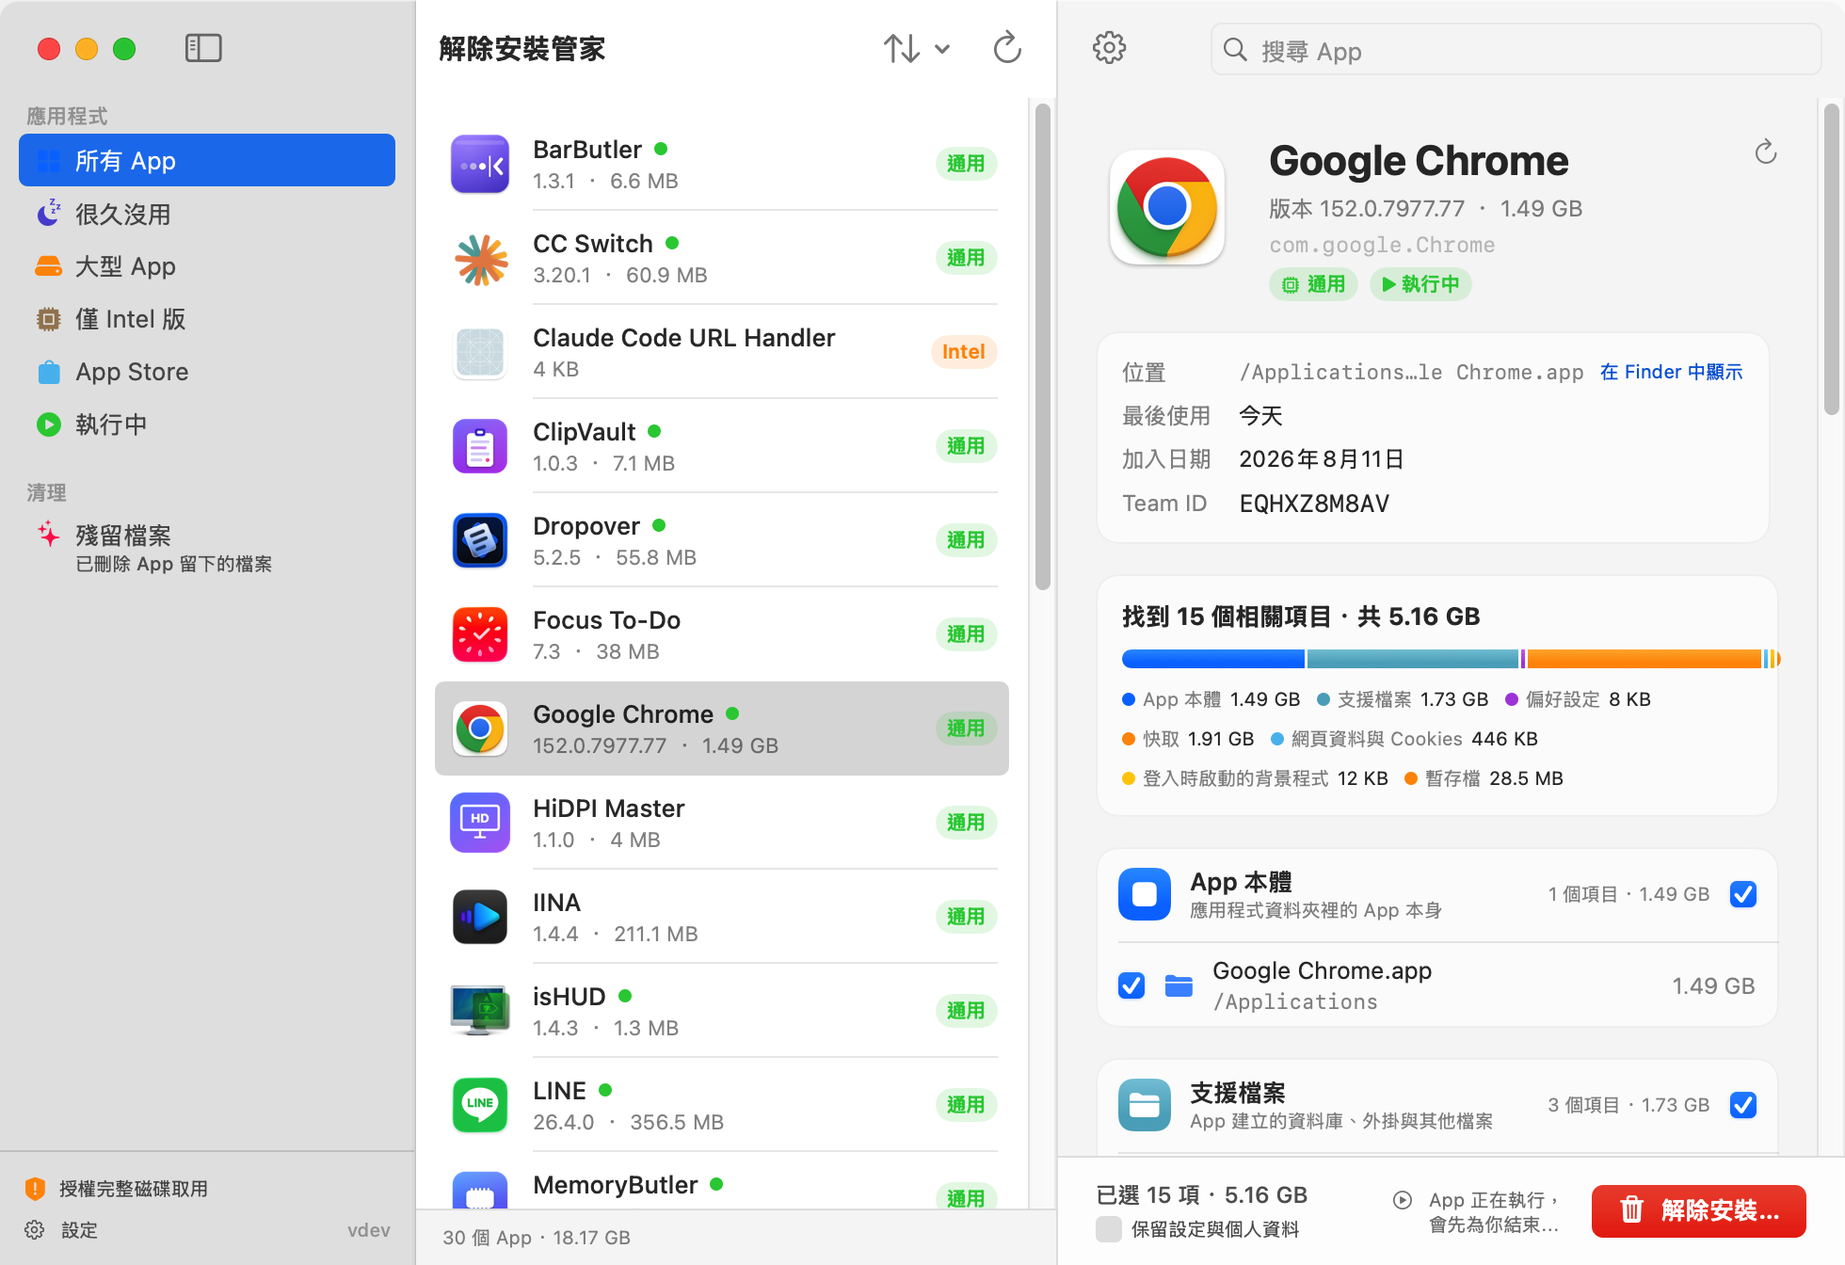
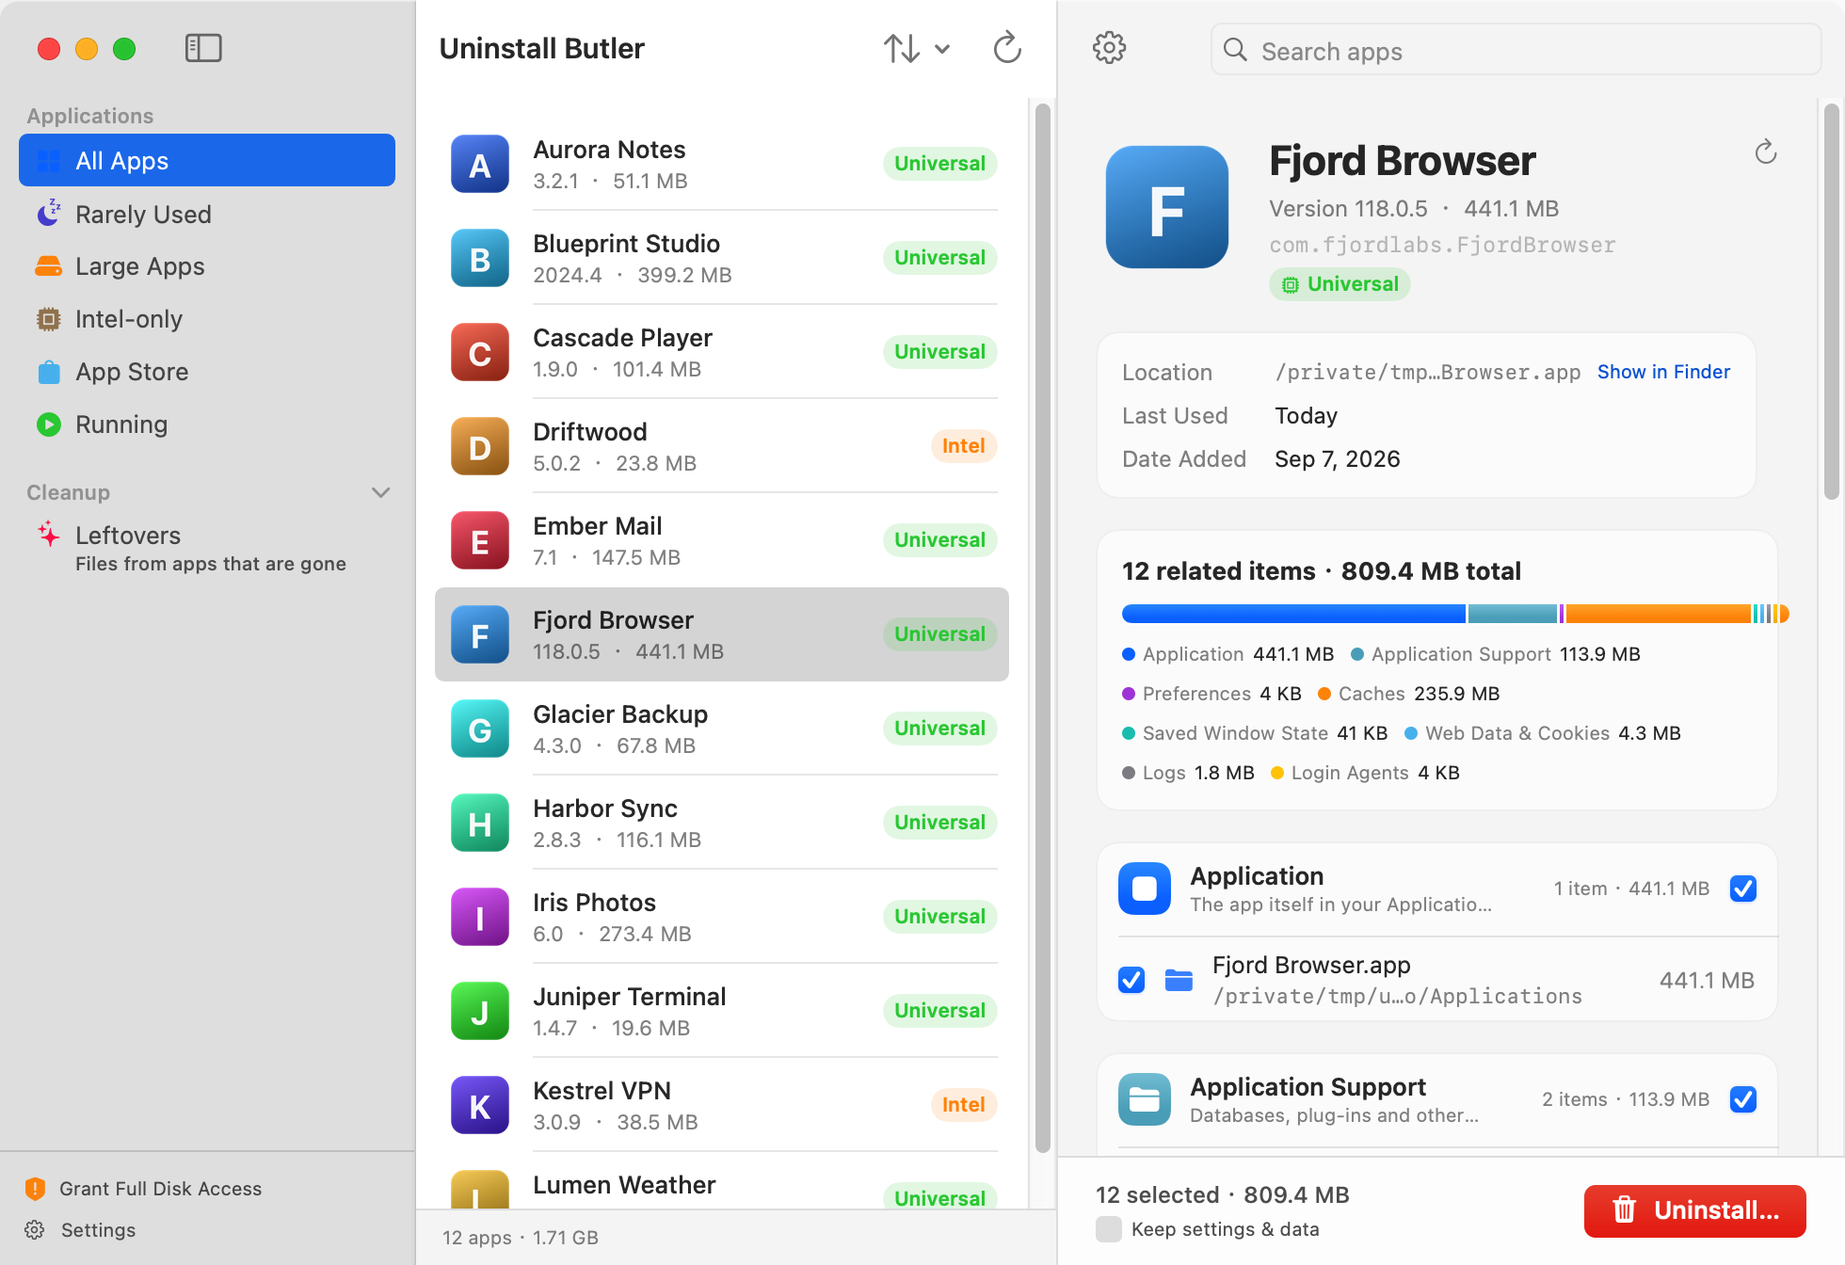
Fix bundle-size fallback and symlinked-path handling; add update checker, demo screenshots
- SizeCalculator: only trust Spotlight PhysicalSize when plausible, otherwise enumerate
  (apps in unindexed folders reported 1 byte)
- AppScanner/ResidueFinder: only treat an app as symlinked when the .app entry itself is a
  symlink; compare launchd/container/CLI paths against all equivalent app paths
- UpdateChecker against GitHub Releases + Check for Updates menu item
- README screenshots rendered from a fictional demo environment (scripts/make_demo.swift)
- make_dev_cert.sh: use ${NAME} next to CJK quotes (bash parsed them as part of the name)

diff --git a/scripts/make_demo.swift b/scripts/make_demo.swift
@@ -1,0 +1,148 @@
+// 產生 README 截圖用的「虛構示範環境」：假 App（含圖示、假大小）＋ 一個示範 App 的假殘留。
+//   swift scripts/make_demo.swift create   → /tmp/ub-demo/Applications/*.app 與 ~/Library 內的示範殘留
+//   swift scripts/make_demo.swift cleanup  → 全部移除
+// 所有名稱都是虛構的，不會碰到任何真實 App 的檔案。
+import AppKit
+import Foundation
+
+let fm = FileManager.default
+let home = URL(fileURLWithPath: NSHomeDirectory())
+let demoRoot = URL(fileURLWithPath: "/tmp/ub-demo/Applications", isDirectory: true)
+let lib = home.appendingPathComponent("Library")
+
+struct DemoApp { let name: String; let id: String; let version: String; let mb: Int; let hue: CGFloat; let intelOnly: Bool }
+let apps: [DemoApp] = [
+    .init(name: "Aurora Notes", id: "com.northlight.AuroraNotes", version: "3.2.1", mb: 48, hue: 0.62, intelOnly: false),
+    .init(name: "Blueprint Studio", id: "com.draftworks.BlueprintStudio", version: "2024.4", mb: 380, hue: 0.55, intelOnly: false),
+    .init(name: "Cascade Player", id: "org.cascade.Player", version: "1.9.0", mb: 96, hue: 0.02, intelOnly: false),
+    .init(name: "Driftwood", id: "com.tidepool.Driftwood", version: "5.0.2", mb: 22, hue: 0.09, intelOnly: true),
+    .init(name: "Ember Mail", id: "com.emberworks.Mail", version: "7.1", mb: 140, hue: 0.98, intelOnly: false),
+    .init(name: "Fjord Browser", id: "com.fjordlabs.FjordBrowser", version: "118.0.5", mb: 420, hue: 0.58, intelOnly: false),
+    .init(name: "Glacier Backup", id: "com.glacier.Backup", version: "4.3.0", mb: 64, hue: 0.50, intelOnly: false),
+    .init(name: "Harbor Sync", id: "io.harbor.Sync", version: "2.8.3", mb: 110, hue: 0.44, intelOnly: false),
+    .init(name: "Iris Photos", id: "com.irislabs.Photos", version: "6.0", mb: 260, hue: 0.80, intelOnly: false),
+    .init(name: "Juniper Terminal", id: "dev.juniper.Terminal", version: "1.4.7", mb: 18, hue: 0.33, intelOnly: false),
+    .init(name: "Kestrel VPN", id: "com.kestrel.VPN", version: "3.0.9", mb: 36, hue: 0.70, intelOnly: true),
+    .init(name: "Lumen Weather", id: "com.lumen.Weather", version: "2.2", mb: 30, hue: 0.12, intelOnly: false),
+]
+let demoResidue: [(String, Int)] = [   // 相對 ~/Library 的路徑 → KB（0 = 單一小檔）
+    ("Application Support/Fjord Browser/Profiles", 96_000),
+    ("Application Support/fjordlabs/FjordBrowser", 3_200),
+    ("Caches/com.fjordlabs.FjordBrowser", 210_000),
+    ("Caches/com.fjordlabs.FjordBrowser.helper", 8_400),
+    ("Preferences/com.fjordlabs.FjordBrowser.plist", 0),
+    ("Saved Application State/com.fjordlabs.FjordBrowser.savedState", 40),
+    ("LaunchAgents/com.fjordlabs.FjordBrowser.updater.plist", 0),
+    ("HTTPStorages/com.fjordlabs.FjordBrowser", 1_100),
+    ("WebKit/com.fjordlabs.FjordBrowser", 2_900),
+    ("Logs/Fjord Browser", 1_800),
+]
+
+func writeBlob(_ url: URL, kb: Int) throws {
+    try fm.createDirectory(at: url.deletingLastPathComponent(), withIntermediateDirectories: true)
+    if kb == 0 { try Data("demo".utf8).write(to: url); return }
+    let handle = try { () throws -> FileHandle in
+        fm.createFile(atPath: url.path, contents: nil)
+        return try FileHandle(forWritingTo: url)
+    }()
+    defer { try? handle.close() }
+    var remaining = kb * 1024
+    let chunk = Data((0..<(1024 * 1024)).map { _ in UInt8.random(in: 0...255) })
+    while remaining > 0 {
+        let n = min(remaining, chunk.count)
+        try handle.write(contentsOf: chunk.prefix(n))
+        remaining -= n
+    }
+}
+
+func makeIcon(letter: String, hue: CGFloat, to icns: URL) throws {
+    let size: CGFloat = 512
+    let img = NSImage(size: NSSize(width: size, height: size))
+    img.lockFocus()
+    let inset: CGFloat = 36
+    let rect = NSRect(x: inset, y: inset, width: size - 2 * inset, height: size - 2 * inset)
+    let plate = NSBezierPath(roundedRect: rect, xRadius: 98, yRadius: 98)
+    let c1 = NSColor(calibratedHue: hue, saturation: 0.65, brightness: 0.95, alpha: 1)
+    let c2 = NSColor(calibratedHue: hue, saturation: 0.85, brightness: 0.55, alpha: 1)
+    NSGradient(colors: [c1, c2])!.draw(in: plate, angle: -70)
+    let attrs: [NSAttributedString.Key: Any] = [.font: NSFont.systemFont(ofSize: 250, weight: .bold), .foregroundColor: NSColor.white.withAlphaComponent(0.95)]
+    let str = NSAttributedString(string: letter, attributes: attrs)
+    let sz = str.size()
+    str.draw(at: NSPoint(x: (size - sz.width) / 2, y: (size - sz.height) / 2 - 10))
+    img.unlockFocus()
+    guard let tiff = img.tiffRepresentation, let rep = NSBitmapImageRep(data: tiff), let png = rep.representation(using: .png, properties: [:]) else { return }
+    let iconset = icns.deletingLastPathComponent().appendingPathComponent("tmp.iconset")
+    try? fm.removeItem(at: iconset)
+    try fm.createDirectory(at: iconset, withIntermediateDirectories: true)
+    try png.write(to: iconset.appendingPathComponent("icon_256x256@2x.png"))
+    try png.write(to: iconset.appendingPathComponent("icon_512x512.png"))
+    let p = Process()
+    p.executableURL = URL(fileURLWithPath: "/usr/bin/iconutil")
+    p.arguments = ["-c", "icns", iconset.path, "-o", icns.path]
+    try p.run(); p.waitUntilExit()
+    try? fm.removeItem(at: iconset)
+}
+
+func thinBinary(to url: URL, intelOnly: Bool) throws {
+    if intelOnly {
+        let p = Process()
+        p.executableURL = URL(fileURLWithPath: "/usr/bin/lipo")
+        p.arguments = ["/bin/ls", "-thin", "x86_64", "-output", url.path]
+        try p.run(); p.waitUntilExit()
+    } else {
+        try fm.copyItem(at: URL(fileURLWithPath: "/bin/ls"), to: url)
+    }
+}
+
+func create() throws {
+    try? fm.removeItem(at: demoRoot)
+    try fm.createDirectory(at: demoRoot, withIntermediateDirectories: true)
+    for a in apps {
+        let bundle = demoRoot.appendingPathComponent("\(a.name).app")
+        let contents = bundle.appendingPathComponent("Contents")
+        try fm.createDirectory(at: contents.appendingPathComponent("MacOS"), withIntermediateDirectories: true)
+        try fm.createDirectory(at: contents.appendingPathComponent("Resources"), withIntermediateDirectories: true)
+        let exe = a.name.replacingOccurrences(of: " ", with: "")
+        let info: [String: Any] = ["CFBundleIdentifier": a.id, "CFBundleName": a.name, "CFBundleDisplayName": a.name,
+                                   "CFBundleExecutable": exe, "CFBundleShortVersionString": a.version, "CFBundleVersion": "1",
+                                   "CFBundlePackageType": "APPL", "CFBundleIconFile": "AppIcon", "LSMinimumSystemVersion": "12.0"]
+        try PropertyListSerialization.data(fromPropertyList: info, format: .xml, options: 0).write(to: contents.appendingPathComponent("Info.plist"))
+        try thinBinary(to: contents.appendingPathComponent("MacOS/\(exe)"), intelOnly: a.intelOnly)
+        try makeIcon(letter: String(a.name.prefix(1)), hue: a.hue, to: contents.appendingPathComponent("Resources/AppIcon.icns"))
+        try writeBlob(contents.appendingPathComponent("Resources/payload.bin"), kb: a.mb * 1024)
+        print("  • \(a.name) (\(a.mb) MB)")
+    }
+    for (rel, kb) in demoResidue {
+        let url = lib.appendingPathComponent(rel)
+        if url.pathExtension == "plist" {
+            let plist: [String: Any] = rel.contains("LaunchAgents")
+                ? ["Label": "com.fjordlabs.FjordBrowser.updater", "ProgramArguments": [demoRoot.appendingPathComponent("Fjord Browser.app/Contents/MacOS/FjordBrowser").path, "--check"], "RunAtLoad": false]
+                : ["HomePage": "https://example.com", "ShowBookmarksBar": true]
+            try fm.createDirectory(at: url.deletingLastPathComponent(), withIntermediateDirectories: true)
+            try PropertyListSerialization.data(fromPropertyList: plist, format: .xml, options: 0).write(to: url)
+        } else {
+            try writeBlob(url.appendingPathComponent(kb > 50_000 ? "Cache.db" : "data.bin"), kb: kb)
+            if kb > 50_000 { try writeBlob(url.appendingPathComponent("Media Cache/index.db"), kb: 12_000) }
+        }
+    }
+    // /var/folders 快取
+    var buf = [Int8](repeating: 0, count: Int(PATH_MAX))
+    if confstr(_CS_DARWIN_USER_CACHE_DIR, &buf, buf.count) > 0 {
+        let c = URL(fileURLWithPath: String(cString: buf)).appendingPathComponent("com.fjordlabs.FjordBrowser")
+        try writeBlob(c.appendingPathComponent("tmp.bin"), kb: 12_000)
+    }
+    print("示範環境已建立：\(demoRoot.path)")
+}
+
+func cleanup() {
+    try? fm.removeItem(at: URL(fileURLWithPath: "/tmp/ub-demo"))
+    for (rel, _) in demoResidue { try? fm.removeItem(at: lib.appendingPathComponent(rel)) }
+    try? fm.removeItem(at: lib.appendingPathComponent("Application Support/fjordlabs"))
+    var buf = [Int8](repeating: 0, count: Int(PATH_MAX))
+    if confstr(_CS_DARWIN_USER_CACHE_DIR, &buf, buf.count) > 0 {
+        try? fm.removeItem(at: URL(fileURLWithPath: String(cString: buf)).appendingPathComponent("com.fjordlabs.FjordBrowser"))
+    }
+    print("示範環境已清除")
+}
+
+if CommandLine.arguments.contains("cleanup") { cleanup() } else { try create() }

diff --git a/Sources/UninstallCore/ResidueFinder.swift b/Sources/UninstallCore/ResidueFinder.swift
@@ -230,15 +230,25 @@ public enum ResidueFinder {
             return nil
         }
 
+        /// App 的所有等價路徑（列出的路徑、symlink 解析後、中間目錄也解析後）
+        var appPaths: [String] {
+            var set: [String] = []
+            for p in [app.url.path, appPath, (appPath as NSString).resolvingSymlinksInPath] where !set.contains(p) { set.append(p) }
+            return set
+        }
+
+        func isInsideApp(_ path: String) -> Bool {
+            let std = (path as NSString).standardizingPath
+            let resolved = (std as NSString).resolvingSymlinksInPath
+            for root in appPaths where std == root || std.hasPrefix(root + "/") || resolved == root || resolved.hasPrefix(root + "/") { return true }
+            return false
+        }
+
         public func programIsInsideApp(_ plist: [String: Any]) -> Bool {
             var paths: [String] = []
             if let p = plist["Program"] as? String { paths.append(p) }
             if let args = plist["ProgramArguments"] as? [String], let first = args.first { paths.append(first) }
-            for p in paths {
-                let std = (p as NSString).standardizingPath
-                if std == appPath || std.hasPrefix(appPath + "/") { return true }
-            }
-            return false
+            return paths.contains { isInsideApp($0) }
         }
     }
 
@@ -253,7 +263,7 @@ public enum ResidueFinder {
                                requiresAdmin: !FS.currentUserCanDelete(app.url), matchedBy: .isApp)
         main.sizeBytes = app.sizeBytes
         items.append(main)
-        if app.resolvedURL.path != app.url.path {
+        if app.isSymlink, app.resolvedURL.path != app.url.path {
             var target = ResidueItem(url: app.resolvedURL, category: .appBundle, isDirectory: true,
                                      requiresAdmin: !FS.currentUserCanDelete(app.resolvedURL), matchedBy: .symlinkTarget)
             target.sizeBytes = app.sizeBytes
@@ -319,9 +329,8 @@ public enum ResidueFinder {
             } else if loc.category == .container {
                 // 沙盒容器：先看中繼資料指向哪個 App（最精確），再退回名稱比對
                 if let meta = ContainerMetadata.read(child), let owner = meta.appBundlePath {
-                    let std = (owner as NSString).standardizingPath
-                    if std == m.appPath || std.hasPrefix(m.appPath + "/") { reason = .containerOwner }
-                    else if FS.exists(URL(fileURLWithPath: std)) { continue } // 屬於別的 App
+                    if m.isInsideApp(owner) { reason = .containerOwner }
+                    else if FS.exists(URL(fileURLWithPath: (owner as NSString).standardizingPath)) { continue } // 屬於別的 App
                 }
                 if reason == nil, let id = m.idMatch(name) { reason = .bundleID(id) }
                 if reason == nil, let vp = m.vendorPrefixMatch(name) { reason = .vendorPrefix(vp); cautions.append(.sameDeveloper) }
@@ -476,8 +485,7 @@ public enum ResidueFinder {
             for child in FS.children(of: dir) {
                 guard let dest = try? FileManager.default.destinationOfSymbolicLink(atPath: child.path) else { continue }
                 let abs = dest.hasPrefix("/") ? dest : dir.appendingPathComponent(dest).path
-                let std = (abs as NSString).standardizingPath
-                if std.hasPrefix(m.appPath + "/") {
+                if m.isInsideApp(abs) && (abs as NSString).standardizingPath != m.appPath {
                     var item = ResidueItem(url: child, category: .commandLine, isDirectory: false,
                                            requiresAdmin: !FS.currentUserCanDelete(child), matchedBy: .symlinkTarget)
                     item.sizeBytes = 0

diff --git a/Sources/UninstallCore/Privileged.swift b/Sources/UninstallCore/Privileged.swift
@@ -77,10 +77,16 @@ public enum PrivilegedRunner {
 
 public enum RunningApps {
     public static func instances(of app: InstalledApp) -> [NSRunningApplication] {
-        let root = app.resolvedURL.path
+        let roots = Set([app.url.path, app.resolvedURL.path, app.resolvedURL.resolvingSymlinksInPath().path])
+        func inside(_ url: URL?) -> Bool {
+            guard let url else { return false }
+            for p in [url.path, url.resolvingSymlinksInPath().path] {
+                for root in roots where p == root || p.hasPrefix(root + "/") { return true }
+            }
+            return false
+        }
         return NSWorkspace.shared.runningApplications.filter { r in
-            if let b = r.bundleURL?.resolvingSymlinksInPath().path, b == root || b.hasPrefix(root + "/") { return true }
-            if let e = r.executableURL?.resolvingSymlinksInPath().path, e.hasPrefix(root + "/") { return true }
+            if inside(r.bundleURL) || inside(r.executableURL) { return true }
             if let id = app.bundleID, r.bundleIdentifier == id { return true }
             return false
         }
@@ -99,7 +105,9 @@ public enum RunningApps {
         for p in procs where !p.isTerminated { p.forceTerminate() }
         usleep(300_000)
         // 非 GUI 的背景程序（agent、helper）
-        Shell.run("/usr/bin/pkill", ["-9", "-f", NSRegularExpression.escapedPattern(for: app.resolvedURL.path + "/")], timeout: 5)
+        for root in Set([app.resolvedURL.path, app.resolvedURL.resolvingSymlinksInPath().path]) {
+            Shell.run("/usr/bin/pkill", ["-9", "-f", NSRegularExpression.escapedPattern(for: root + "/")], timeout: 5)
+        }
         return instances(of: app).allSatisfy { $0.isTerminated }
     }
 }

diff --git a/Sources/UninstallCore/AppScanner.swift b/Sources/UninstallCore/AppScanner.swift
@@ -37,10 +37,10 @@ public enum AppScanner {
         guard depth <= 2 else { return }
         for child in FS.children(of: folder, includeHidden: false) {
             let isLink = FS.isSymlink(child)
-            let resolved = child.resolvingSymlinksInPath()
+            let resolved = isLink ? child.resolvingSymlinksInPath() : child
             if child.pathExtension.lowercased() == "app" || resolved.pathExtension.lowercased() == "app" {
                 guard FS.isDirectory(resolved) else { continue }
-                if seen.insert(resolved.path).inserted { out.append((child, resolved, isLink)) }
+                if seen.insert(resolved.resolvingSymlinksInPath().path).inserted { out.append((child, resolved, isLink)) }
             } else if !isLink, FS.isDirectory(child), child.pathExtension.isEmpty {
                 collectAppURLs(in: child, depth: depth + 1, seen: &seen, into: &out)
             }
@@ -49,7 +49,7 @@ public enum AppScanner {
 
     /// 讀取單一 App 的資訊（不含大小，大小另外背景計算）
     public static func inspect(appURL: URL, resolved: URL? = nil) -> InstalledApp? {
-        let real = resolved ?? appURL.resolvingSymlinksInPath()
+        let real = resolved ?? (FS.isSymlink(appURL) ? appURL.resolvingSymlinksInPath() : appURL)
         let infoURL = real.appendingPathComponent("Contents/Info.plist")
         guard let info = FS.readPlist(infoURL) else { return nil }
 

diff --git a/Sources/UninstallCore/Support.swift b/Sources/UninstallCore/Support.swift
@@ -128,7 +128,6 @@ public enum SizeCalculator {
     public static func spotlightSize(of url: URL) -> Int64? {
         guard let item = MDItemCreate(nil, url.path as CFString) else { return nil }
         if let n = MDItemCopyAttribute(item, "kMDItemPhysicalSize" as CFString) as? NSNumber { return n.int64Value }
-        if let n = MDItemCopyAttribute(item, kMDItemFSSize) as? NSNumber { return n.int64Value }
         return nil
     }
 
@@ -150,9 +149,9 @@ public enum SizeCalculator {
         return total
     }
 
-    /// App 大小：先試 Spotlight，沒有就逐檔算
+    /// App 大小：先試 Spotlight（索引過的套件會有整包大小），沒有或小得不合理就逐檔算
     public static func bundleSize(of url: URL) -> Int64 {
-        if let s = spotlightSize(of: url), s > 0 { return s }
+        if let s = spotlightSize(of: url), s >= 512 * 1024 { return s }
         return size(of: url)
     }
 }

diff --git a/Sources/UninstallButler/Prefs.swift b/Sources/UninstallButler/Prefs.swift
@@ -24,6 +24,10 @@ final class Prefs: ObservableObject {
     }
 
     var appFolders: [URL] {
+        // 截圖 / 示範用：只掃指定資料夾（冒號分隔），不碰真實的應用程式資料夾
+        if let demo = ProcessInfo.processInfo.environment["UNINSTALLBUTLER_SNAPSHOT_FOLDERS"], !demo.isEmpty {
+            return demo.split(separator: ":").map { URL(fileURLWithPath: String($0), isDirectory: true) }
+        }
         var urls = Paths.defaultAppFolders
         for p in extraFolders {
             let u = URL(fileURLWithPath: (p as NSString).expandingTildeInPath, isDirectory: true)

diff --git a/Sources/UninstallButler/RootView.swift b/Sources/UninstallButler/RootView.swift
@@ -109,8 +109,9 @@ struct SidebarView: View {
                 }
                 .buttonStyle(.plain).foregroundStyle(.secondary)
                 Spacer()
-                Text("v\(Bundle.main.object(forInfoDictionaryKey: "CFBundleShortVersionString") as? String ?? "dev")")
-                    .font(.caption2).foregroundStyle(.tertiary)
+                if let v = Bundle.main.object(forInfoDictionaryKey: "CFBundleShortVersionString") as? String {
+                    Text("v\(v)").font(.caption2).foregroundStyle(.tertiary)
+                }
             }
         }
         .padding(12)

diff --git a/README.zh-TW.md b/README.zh-TW.md
@@ -13,7 +13,7 @@
 ![Swift](https://img.shields.io/badge/Swift-5.9-F05138?logo=swift&logoColor=white)
 ![License](https://img.shields.io/badge/license-MIT-green)
 
-<img src="docs/screenshot.png" width="860" alt="解除安裝管家主視窗">
+<img src="docs/screenshot-zh-TW.png" width="860" alt="解除安裝管家主視窗">
 
 </div>
 

diff --git a/README.zh-CN.md b/README.zh-CN.md
@@ -13,7 +13,7 @@
 ![Swift](https://img.shields.io/badge/Swift-5.9-F05138?logo=swift&logoColor=white)
 ![License](https://img.shields.io/badge/license-MIT-green)
 
-<img src="docs/screenshot.png" width="860" alt="卸载管家主窗口">
+<img src="docs/screenshot-zh-CN.png" width="860" alt="卸载管家主窗口">
 
 </div>
 
